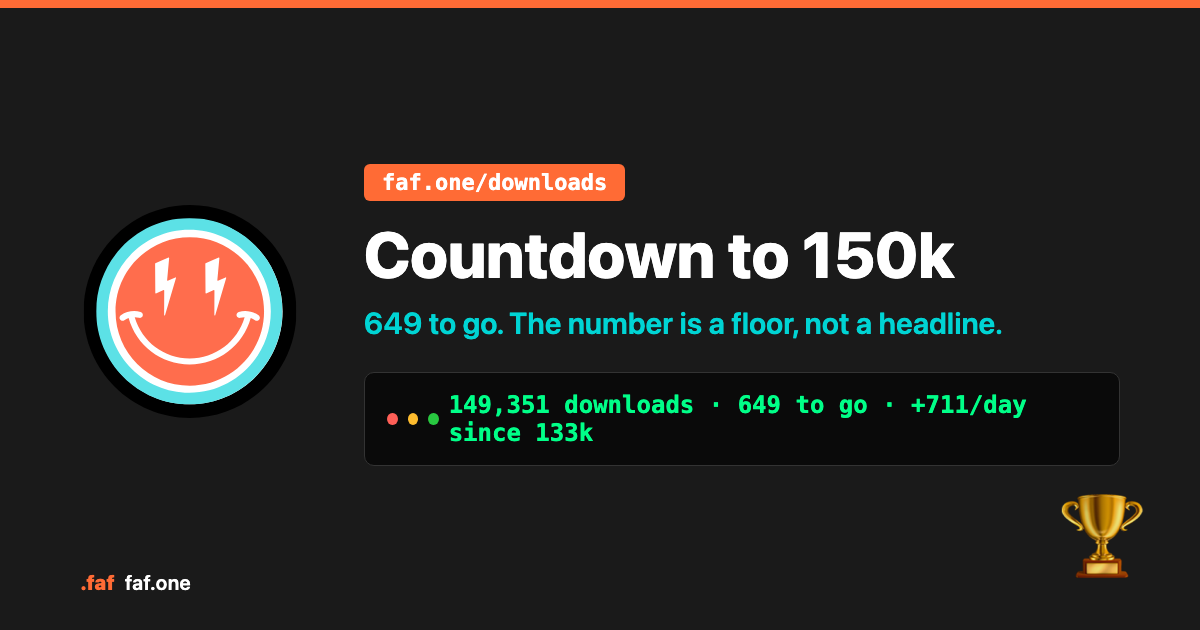
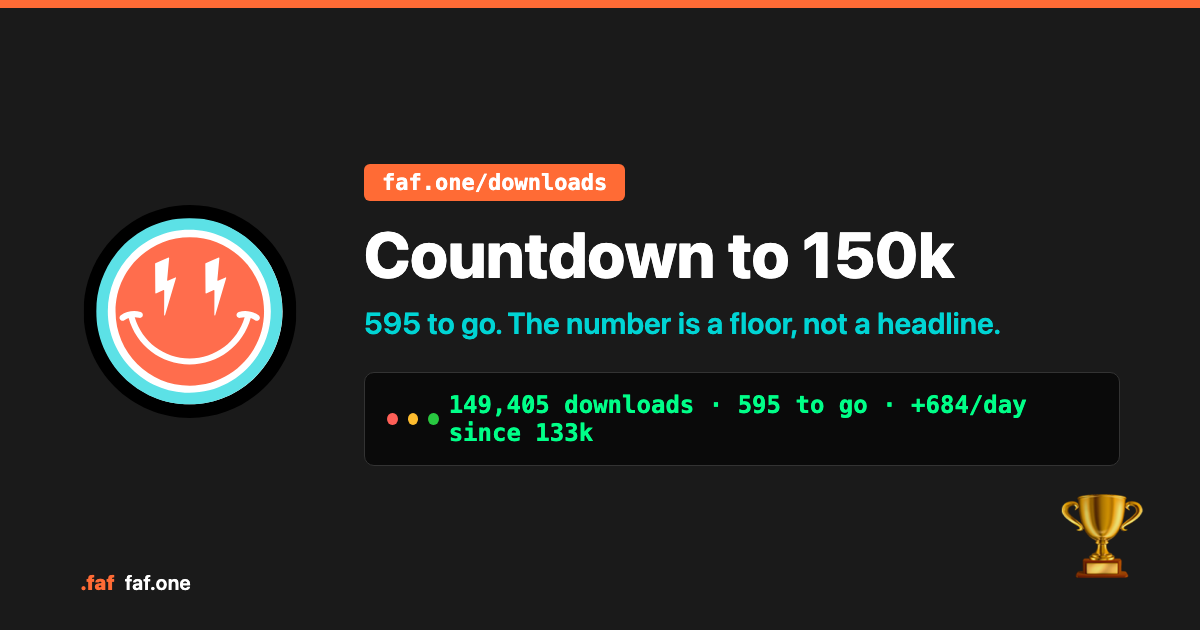
fix(blog): restate Countdown to 150k on today's refreshed counts
- The daily auto-refresh landed while the post was being written
- Total 149,351 to 149,405, so 649 to go becomes 595
- PyPI 12,132 to 12,154, crates 1,872 to 1,904, npm unchanged
- Pace recomputed off the 133k crossing: 16,405 in 24 days, 684/day
- Hero card regenerated so it no longer contradicts the body

Claude-Session: https://claude.ai/code/session_01KnHgQTeSEV6uATCGumM1nz

diff --git a/src/routes/blog/countdown-150k/+page.svelte b/src/routes/blog/countdown-150k/+page.svelte
@@ -6,9 +6,9 @@
 
 	const shareText = `Countdown to 150k.
 
-149,351 downloads across npm, PyPI and crates.io. 649 to go — about a day at current pace.
+149,405 downloads across npm, PyPI and crates.io. 595 to go — about a day at current pace.
 
-+711/day since the 133k crossing.
++684/day since the 133k crossing.
 The number is a hard floor: PyPI without_mirrors only, 26 packages, 3 registries.
 
 npx faf-cli auto
@@ -21,9 +21,9 @@ Comments · suggestions welcome.`;
 
 <svelte:head>
 	<title>Countdown to 150k | FAF</title>
-	<meta name="description" content="149,351 downloads. 649 to go. The shortest countdown we have run — and the number is a floor, not a headline. Counts fed daily, pace derived, nothing typed by hand." />
+	<meta name="description" content="149,405 downloads. 595 to go. The shortest countdown we have run — and the number is a floor, not a headline. Counts fed daily, pace derived, nothing typed by hand." />
 	<meta property="og:title" content="Countdown to 150k — FAF Ecosystem" />
-	<meta property="og:description" content="649 to go, about a day at current pace. The number is a hard floor: PyPI without_mirrors only, 26 packages, 3 registries." />
+	<meta property="og:description" content="595 to go, about a day at current pace. The number is a hard floor: PyPI without_mirrors only, 26 packages, 3 registries." />
 	<meta property="og:type" content="article" />
 	<meta name="twitter:card" content="summary_large_image" />
 	<meta property="og:image" content="https://faf.one/blog/countdown-150k-hero.png" />
@@ -37,7 +37,7 @@ Comments · suggestions welcome.`;
 		</div>
 
 		<h1>Countdown to 150k</h1>
-		<p class="subtitle">649 to go. At this pace, that is tomorrow.</p>
+		<p class="subtitle">595 to go. At this pace, that is tomorrow.</p>
 		<div class="meta">
 			<time datetime="2026-09-24">September 24, 2026</time>
 			<span class="separator">&bull;</span>
@@ -46,18 +46,18 @@ Comments · suggestions welcome.`;
 	</header>
 
 	<div class="hero-image">
-		<img src="/blog/countdown-150k-hero.png" alt="Countdown to 150k — 649 downloads to go, 149,351 down across npm, PyPI and crates.io." />
+		<img src="/blog/countdown-150k-hero.png" alt="Countdown to 150k — 595 downloads to go, 149,405 down across npm, PyPI and crates.io." />
 	</div>
 
 	<article class="post-content">
 		<section class="intro">
 			<p class="lead">
-				<strong>TL;DR:</strong> The FAF ecosystem sits at <strong>149,351 downloads</strong> across npm, PyPI and crates.io &mdash; <strong>649 short</strong> of 150,000. That is under a day at the current pace, which makes this the shortest countdown we have run. The number is also a <em>floor</em>, not a headline, and that part matters more than the milestone.
+				<strong>TL;DR:</strong> The FAF ecosystem sits at <strong>149,405 downloads</strong> across npm, PyPI and crates.io &mdash; <strong>595 short</strong> of 150,000. That is under a day at the current pace, which makes this the shortest countdown we have run. The number is also a <em>floor</em>, not a headline, and that part matters more than the milestone.
 			</p>
 		</section>
 
 		<section class="celebration">
-			<div class="big-number">649</div>
+			<div class="big-number">595</div>
 			<div class="big-label">downloads to go</div>
 		</section>
 
@@ -65,9 +65,9 @@ Comments · suggestions welcome.`;
 			<h2>Today&rsquo;s Count</h2>
 
 			<pre class="heartbeat"><code>{`Countdown to 150k
-149,351 downloads · 649 to go
-+711/day since the 133k crossing · ~1 day at this pace
-npm 135,347 · PyPI 12,132 · crates 1,872`}</code></pre>
+149,405 downloads · 595 to go
++684/day since the 133k crossing · ~1 day at this pace
+npm 135,347 · PyPI 12,154 · crates 1,904`}</code></pre>
 
 			<p>Every number above is <em>fed, not typed</em> &mdash; the same daily-refreshed file that powers the banner at the top of this site and the table on <a href="/downloads">/downloads</a>. One source, three surfaces.</p>
 		</section>
@@ -75,7 +75,7 @@ npm 135,347 · PyPI 12,132 · crates 1,872`}</code></pre>
 		<section>
 			<h2>The Number Is a Floor</h2>
 
-			<p>149,351 is not the biggest number we could print. It is the biggest one we can defend.</p>
+			<p>149,405 is not the biggest number we could print. It is the biggest one we can defend.</p>
 
 			<p>The meter counts npm and crates.io as reported, and PyPI as <code>without_mirrors</code> only &mdash; real installs, no mirror or bot traffic folded in. The PyPI statistics window runs about 180 days, so every package older than that is <strong>undercounted on purpose</strong>. Twenty-six packages, three registries, one hard floor.</p>
 
@@ -85,11 +85,11 @@ npm 135,347 · PyPI 12,132 · crates 1,872`}</code></pre>
 		<section>
 			<h2>From 133k, 24 Days Ago</h2>
 
-			<p>133,000 landed on <a href="/blog/hundred-thirty-three-thousand">August 31</a> &mdash; that one was +32,000 in 72 days. The 16,351 since arrived in 23.</p>
+			<p>133,000 landed on <a href="/blog/hundred-thirty-three-thousand">August 31</a> &mdash; that one was +32,000 in 72 days. The 16,405 since arrived in 24.</p>
 
 			<pre class="heartbeat"><code>{`60k  → 100k    +40,000 in 51 days    784/day
 100k → 133k    +33,000 in 72 days    458/day
-133k → today   +16,351 in 23 days    711/day`}</code></pre>
+133k → today   +16,405 in 24 days    684/day`}</code></pre>
 
 			<p>The middle stretch was the slow one. The pace since has not quite returned to the run into six figures, but it is close &mdash; and it came with no launch, no campaign and no marketing spend behind it.</p>
 		</section>

diff --git a/src/routes/blog/+page.svelte b/src/routes/blog/+page.svelte
@@ -37,7 +37,7 @@
 			date: 'September 24, 2026',
 			timestamp: '2026-09-24',
 			excerpt:
-				'149,351 downloads. 649 to go — about a day at current pace. The shortest countdown we have run, and the number is a floor, not a headline: PyPI without_mirrors only, 26 packages, 3 registries.',
+				'149,405 downloads. 595 to go — about a day at current pace. The shortest countdown we have run, and the number is a floor, not a headline: PyPI without_mirrors only, 26 packages, 3 registries.',
 			emoji: '🏆',
 			category: 'Milestone'
 		},
